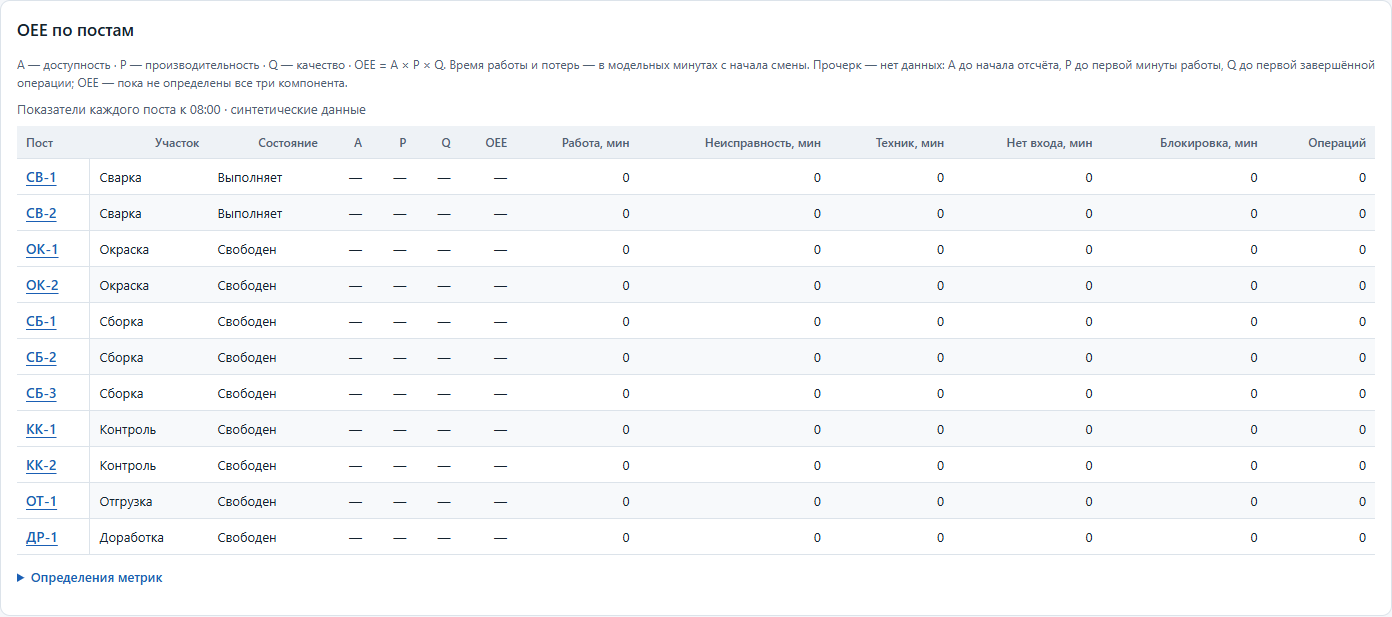
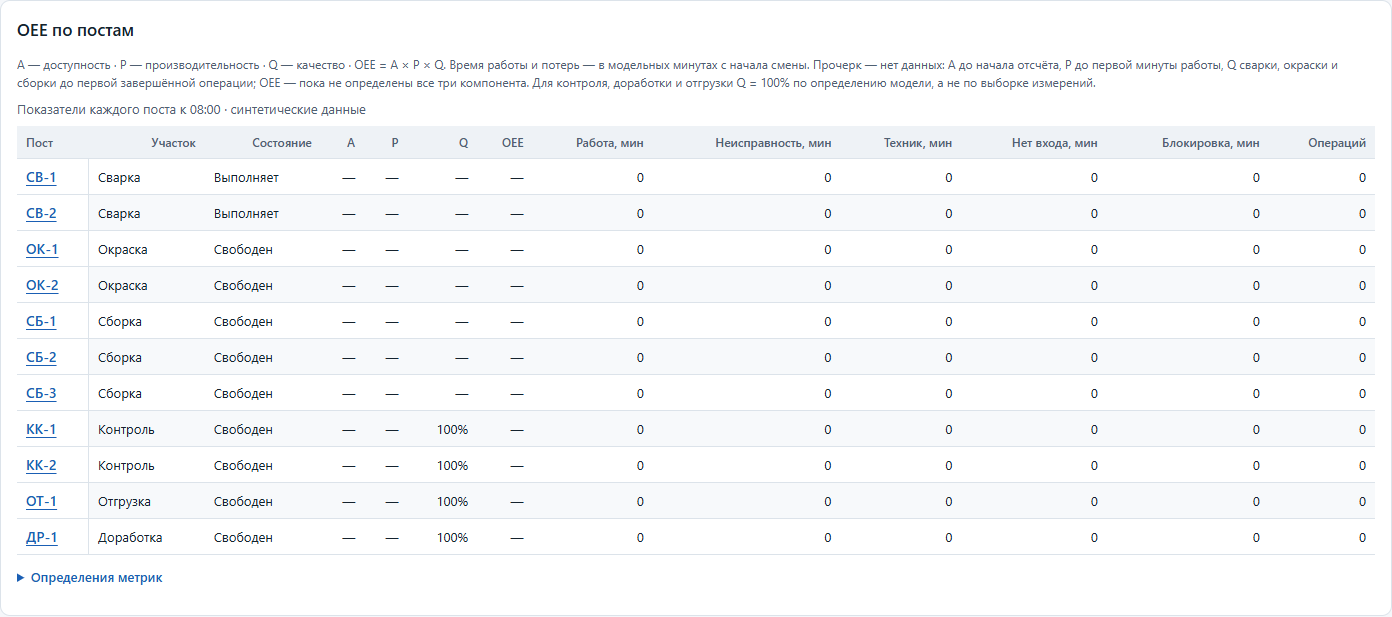
fix(ui): preserve model-defined quality for service stages

diff --git a/public/index.html b/public/index.html
@@ -140,7 +140,7 @@
       </div>
       <div class="panel">
         <h2 class="panel-title">OEE по постам</h2>
-        <p id="oee-note" class="fine-print">A — доступность · P — производительность · Q — качество · OEE = A × P × Q. Время работы и потерь — в модельных минутах с начала смены. Прочерк — нет данных: A до начала отсчёта, P до первой минуты работы, Q до первой завершённой операции; OEE — пока не определены все три компонента.</p>
+        <p id="oee-note" class="fine-print">A — доступность · P — производительность · Q — качество · OEE = A × P × Q. Время работы и потерь — в модельных минутах с начала смены. Прочерк — нет данных: A до начала отсчёта, P до первой минуты работы, Q сварки, окраски и сборки до первой завершённой операции; OEE — пока не определены все три компонента. Для контроля, доработки и отгрузки Q = 100% по определению модели, а не по выборке измерений.</p>
         <div class="table-scroll" tabindex="0" role="region" aria-label="Таблица OEE постов"><table id="oee-table" aria-describedby="oee-note"></table></div>
         <details class="definitions"><summary>Определения метрик</summary>
           <p><b>Плановое время</b> поста — прошедшие минуты смены. <b>A</b> = минуты работы / плановое время; все остановки — неисправность, работы техника, нет автомобиля на входе, блокировка следующим буфером — потери доступности, показаны раздельно.</p>

diff --git a/public/app/40-shift-lab.js b/public/app/40-shift-lab.js
@@ -1,11 +1,12 @@
 // ---------- Shift and analytics ----------
 // Engine defaults for empty denominators are not observed measurements.
 function shiftOeeValue(p, metric) {
+  const qualityDefined = ['quality', 'rework', 'shipping'].includes(p.stage) || p.stats.completed > 0;
   const available = {
     availability: state.elapsed > 0,
     performance: p.stats.run > 0,
-    quality: p.stats.completed > 0,
-    oee: state.elapsed > 0 && p.stats.run > 0 && p.stats.completed > 0,
+    quality: qualityDefined,
+    oee: state.elapsed > 0 && p.stats.run > 0 && qualityDefined,
   };
   return available[metric] ? pct(p.metrics[metric]) : '<span title="Нет данных для расчёта" aria-label="Нет данных для расчёта">—</span>';
 }

diff --git a/docs/T4-VALIDATION.md b/docs/T4-VALIDATION.md
@@ -21,8 +21,15 @@
 
 ## Проверка границ показателей — дополнительный проход
 
-Подтверждённая проблема: при elapsed=0 и нулевых run/completed UI показывал условные значения движка A/P/OEE=0%, Q=100% как измеренные показатели. Теперь только в таблице интерфейса неопределённый показатель обозначается «—» с пояснением: A требует прошедшего времени, P — времени работы, Q — завершённой операции, OEE — определённости всех трёх компонентов. При ненулевом знаменателе показывается исходное значение снимка; настоящий 0% сохраняется. Движок не менялся.
+Подтверждённая проблема: при elapsed=0 и нулевых run/completed UI показывал условные значения движка A/P/OEE=0%, Q=100% как измеренные показатели. Теперь только в таблице интерфейса неопределённый показатель обозначается «—» с пояснением: A требует прошедшего времени, P — времени работы, Q производственных участков — завершённой операции; Q контроля/доработки/отгрузки задано моделью как 100%, OEE — определённости всех трёх компонентов. При ненулевом знаменателе показывается исходное значение снимка; настоящий 0% сохраняется. Движок не менялся.
 
 Регрессии tests/shift-ui.test.mjs используют renderShift и реальные снимки Workshop: начало/конец смены; независимые план, эталон, прогноз и факт; отсутствие эталона; нулевые знаменатели и настоящий нулевой результат. Нулевой план недопустим по серверному контракту (1–24); проверено отклонение setPlanTarget(0). Forecast в текущем snapshot обязателен: отсутствие не является поддерживаемым состоянием, общего fallback интерфейса для повреждённого снимка этот PR не добавляет. На границах forecast присутствует, в конце projected равен actual.
 
 Проверки после исправления: npm.cmd test — 89/89, npm.cmd run build — OK. Edge 1440×1000 и 390×844: снимки 08:00 и 16:00 от реального движка подставлены только в GET /api/state через Playwright route; работающая смена не изменялась. Сверены четыре карточки и все 11 строк OEE, нет переполнения страницы или JS/CSP-ошибок. Скриншоты: screenshots/t4/oee-start-desktop.png, oee-start-mobile.png, oee-end-desktop.png, oee-end-mobile.png. Прочерк вместо служебного значения — намеренное отличие UI от сырых метрик снимка, обозначающее нулевой знаменатель, а не пересчёт метрик.
+
+
+## Уточнение Q сервисных участков после независимого ревью
+
+Подтверждён и исправлен излишний фильтр completed > 0: для контроля, доработки и отгрузки postQuality всегда возвращает 1 по определению модели. Их Q теперь показывается как 100%, а OEE — как значение снимка уже при run > 0 и elapsed > 0. Подпись явно отличает константу модели от измеренной выборки. Для сварки, окраски и сборки отсутствие завершённых операций по-прежнему обозначено прочерком; настоящий 0% сохранён. Движок не менялся.
+
+90/90 тестов и сборка OK. Новый regression воспроизводит через Workshop первую незавершённую операцию каждого из трёх сервисных участков. Edge desktop/mobile проверяет 5 снимков: 08:00, начало работы контроля/доработки/отгрузки и 16:00; все 11 строк и четыре карточки сверены с серверными значениями с учётом описанных знаменателей. Нет переполнения и JS/CSP-ошибок. Скриншоты oee-start/end обновлены, добавлены oee-quality/rework/shipping-desktop/mobile.png.
